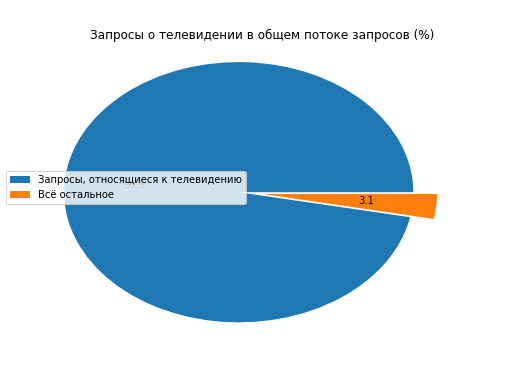
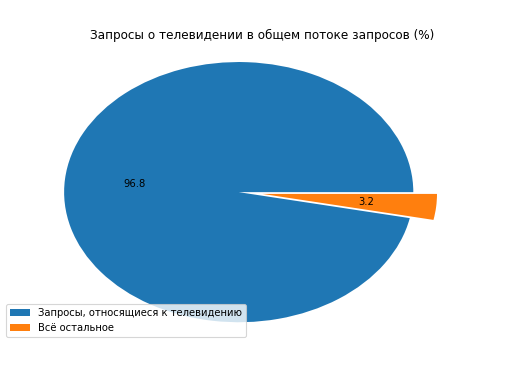
Add diagram for devices

diff --git a/main.py b/main.py
@@ -30,26 +30,39 @@ def count_video_related(total, video_related_requests):
 	    values, autopct='%.1f', radius = 1.1,
 	    explode = [0.15] + [0 for _ in range(len(names) - 1)] )
 	plt.legend(
-	    bbox_to_anchor = (-0.16, 0.45, 0.25, 0.25),
+	    bbox_to_anchor = (-0.16, 0, 0, 0.25),
 	    loc = 'lower left', labels = names )
 	fig.savefig('general_relation.png')
 
 
 
-def classify(requests):
-	content_types = {
-		"adult": ["порно", "секс", "минет", "куни"],
-		"series": ["сезон", "серия", "престолов"]
-	}
+def count_by_device(touch, desktop):
+	names = ['Сенсорные девайсы (смартфоны, планшеты)', 'Десктоп']
+	values = [touch, desktop]
+	
+	dpi = 80
 
-	for request in requests:
-			pass
+	fig = plt.figure(dpi=dpi, figsize=(512/dpi, 384/dpi))
+	mpl.rcParams.update({'font.size': 9})
 
-	for content_type, key_words in content_types.items():
-		pass
+	plt.title('Соотношение запросов, полученных с десктопных устройств \n к запросам с сенсорных устройств')
+
+	xs = range(len(names))
+
+	plt.pie( 
+	    values, autopct='%.1f', radius = 1.1,
+	    explode = [0.15] + [0 for _ in range(len(names) - 1)] )
+	plt.legend(
+	    bbox_to_anchor = (-0.16, 0, 0, 0.25),
+	    loc = 'lower left', labels = names )
+	fig.savefig('devices_relation.png')
+	
 
 
 if __name__ == "__main__":
+	# count_by_device(38985, 10959)
+	# exit()
+
 	log = pd.read_csv("log", sep='\t', header=0)
 
 	devices = defaultdict(int)
@@ -63,20 +76,15 @@ if __name__ == "__main__":
 				continue
 
 			video_content_search = []
-			if search_words(text, [' телев', 'телепер', 'телепрог', 'смотреть', 'сериал', 'кино']):
+			if search_words(text, [' телев', 'телепер', 'телепрог', 'смотреть', 'сериал', 'кино', 'сезон']):
 				count+=1
+				if count > 10000:
+					break
 				video_content_search.append(text)
-			# else:
-				file.write(text + '\n')
+				# file.write(text + '\n')
+				devices[row['device']] += 1
 
-	# classify(video_content_search)
 
 	count_video_related(count, index)
+	count_by_device(devices["touch"], devices["desktop"])
 
-	
-
-# print(set(devices))
-	# if i>100:
-	# 	break
-	# i += 1
-	# print(row.__dict__)
